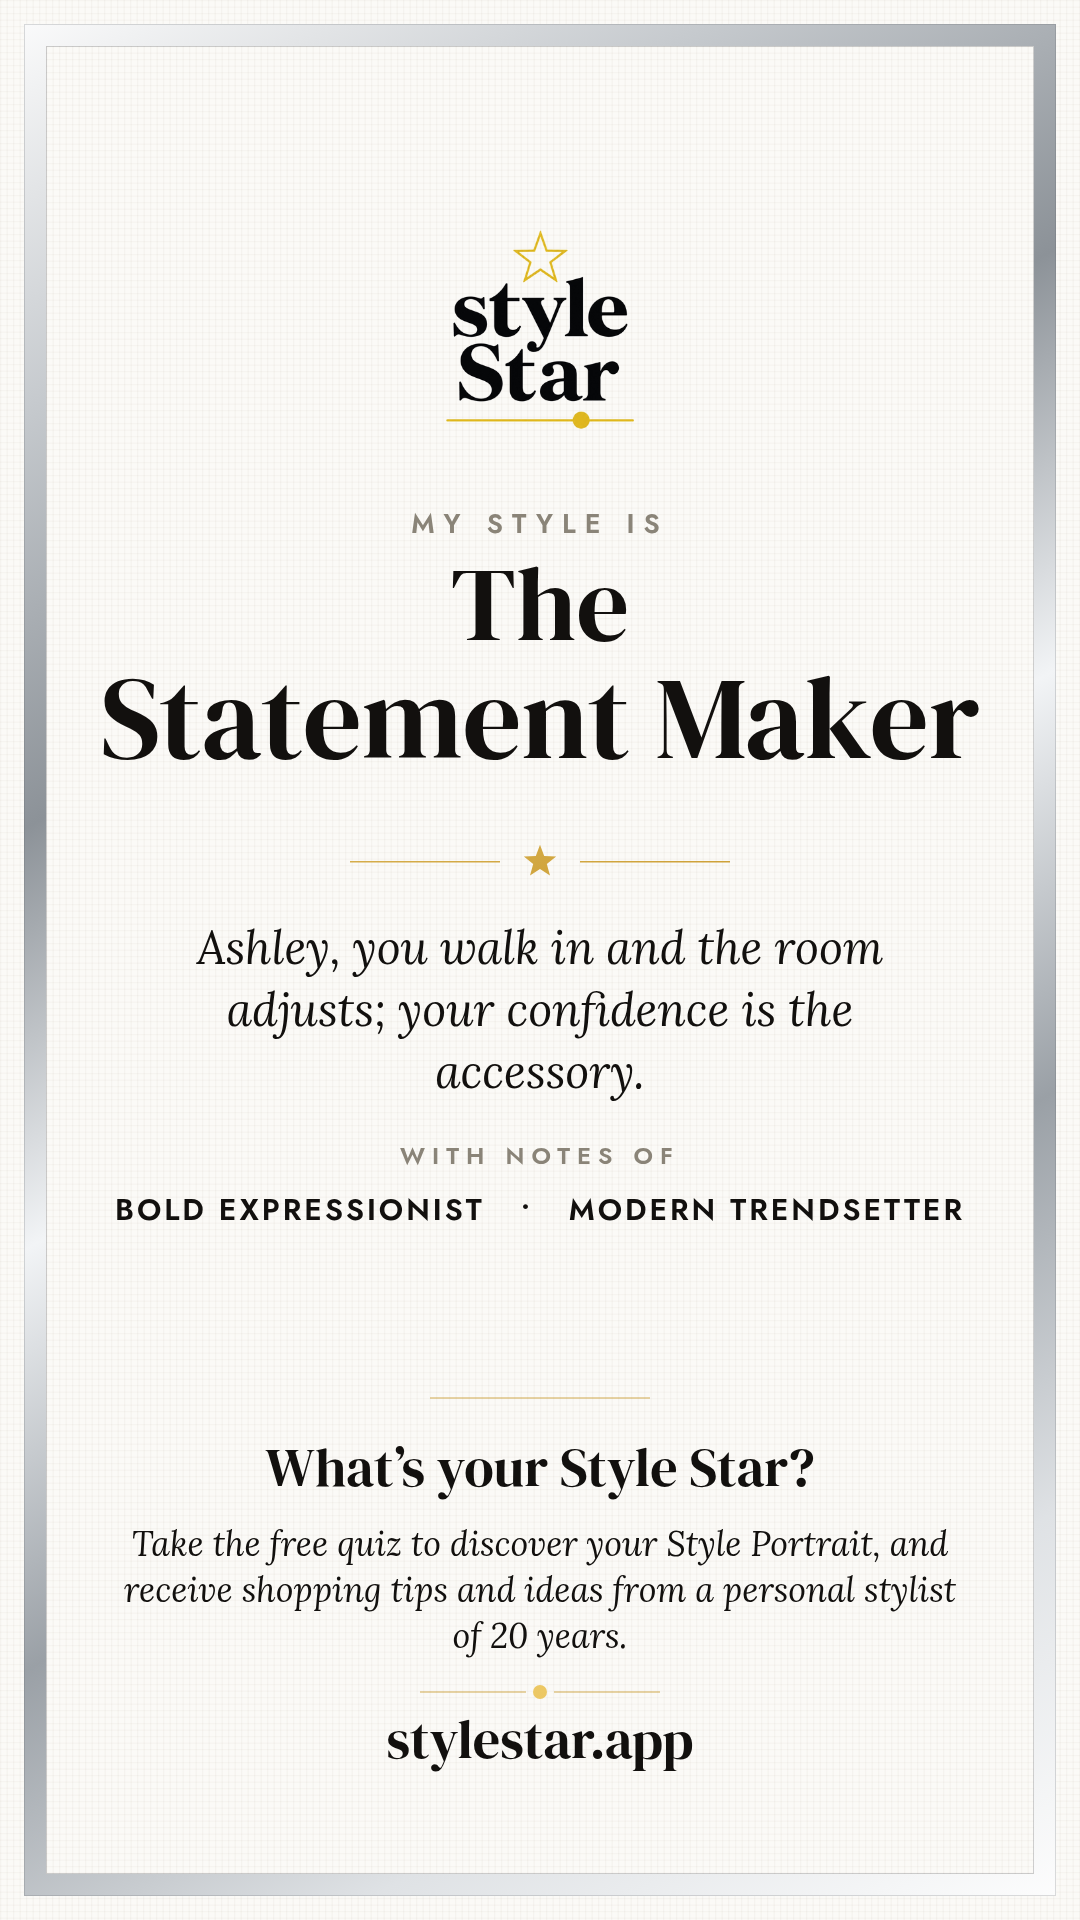
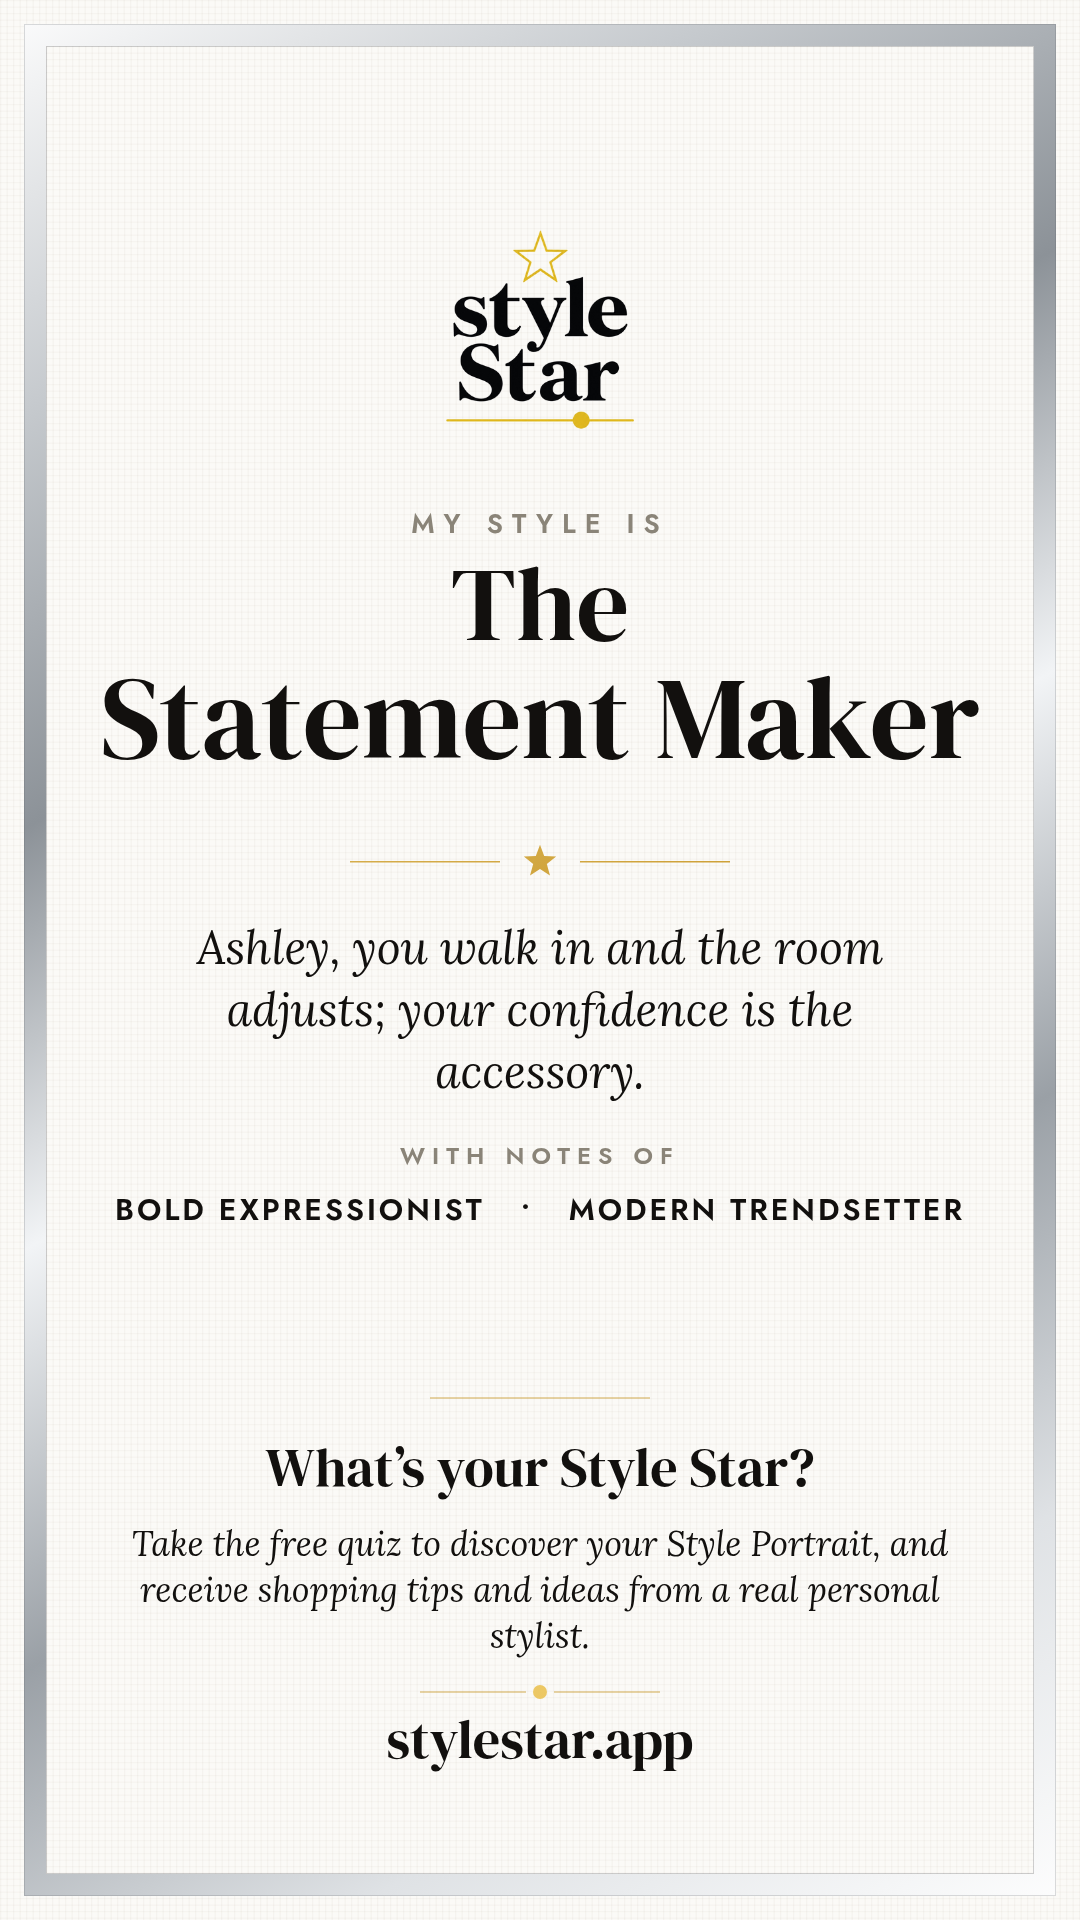
"A real personal stylist" — her word, and it is the better claim
Her call: cut "of 20 years" ("I feel like we already say it a lot"), and try "a
real personal stylist. For Sally!?"

She is right, and it is worth recording why rather than just doing it: the
objection a stranger brings to a style app is not "is she experienced", it is
"is this just an algorithm". That is Sally's entire note, and "real" answers it
in one word where "20 years" answers a question nobody asked. It is also shorter,
which this card cares about.

FINAL COPY, hers end to end:
  "Take the free quiz to discover your Style Portrait, and receive shopping tips
   and ideas from a real personal stylist."

The separate byline is deleted, not hidden: her sentence carries the claim now,
and running both said "personal stylist" twice in adjacent lines.

SIZE CONFIRMED: 1080x1920, Instagram Story. Settled by drawing the two shapes on
the card rather than describing them, which surfaced the argument that decided
it: a FEED post cuts off stylestar.app, and the address is the whole reason the
card exists.

Stress render passing at the shipping size: the longest of the 28 archetype names
("The Polished Professional"), the longest notes pair, a long first name and a
motto at the prompt's 95-char ceiling. Balanced, no overlap, nothing clipped.

DESIGN IS SETTLED. Everything on this card is her call:
  her layout · white linen · silver mirror band, no gold frame · her own star as
  the divider · full-length motto keeping her name · her promise sentence ·
[…]

Changed region(s): [[0.1222, 0.8125, 0.8861, 0.875]]

diff --git a/scratchpad/cardpage.html b/scratchpad/cardpage.html
@@ -567,20 +567,16 @@ function buildTail(TAUPE,BLACK,GOLDF){
                ctx.fillStyle=GOLDF;ctx.beginPath();ctx.arc(W/2,y+20,7,0,7);ctx.fill(); });
 
   if(PROMISE!=='none'){
-    /* HER WORDING, 2026-08-22. Replaces the Claude draft entirely.
-       ⚠ Her sentence ends "from a personal stylist", which does the job the
-       separate byline was doing, so running both says "personal stylist" twice
-       in adjacent lines. Two ways out, hers to pick:
-         fold  her sentence carrying "of 20 years", no byline (recommended: it
-               keeps the Sally differentiator, which her sentence alone loses)
-         both  her sentence as written, byline kept underneath                */
-    const SENT = BYLINE==='fold'
-      ? 'Take the free quiz to discover your Style Portrait, and receive shopping tips and ideas from a personal stylist of 20 years.'
-      : 'Take the free quiz to discover your Style Portrait, and receive shopping tips and ideas from a personal stylist.';
-    if(BYLINE!=='fold'){
-      push(40,y=>{ ctx.fillStyle=TAUPE;ctx.font='500 25px "Jost", sans-serif';
-                   ctx.fillText('Created by a personal stylist of 20 years',W/2,y+28); });
-    }
+    /* HER WORDING, final. Her sentence, plus one word she chose herself.
+       ⚠ "of 20 years" was CUT ON HER INSTRUCTION: "I feel like we already say it
+       a lot." Replaced with "a REAL personal stylist", her idea, and it is the
+       stronger claim of the two on this particular surface. The objection a
+       stranger brings to a style app is not "is she experienced", it is "is this
+       just an algorithm" — which is Sally's whole note, and "real" answers it in
+       one word. It is also shorter, which this card cares about.
+       ⚠ The separate byline is GONE. Her sentence now carries the claim, and
+       running both said "personal stylist" twice in adjacent lines.            */
+    const SENT='Take the free quiz to discover your Style Portrait, and receive shopping tips and ideas from a real personal stylist.';
     ctx.font='italic 400 34px "Lora", serif';
     const pl=wrap(SENT,W-240);
     push(pl.length*46+18,y=>{
